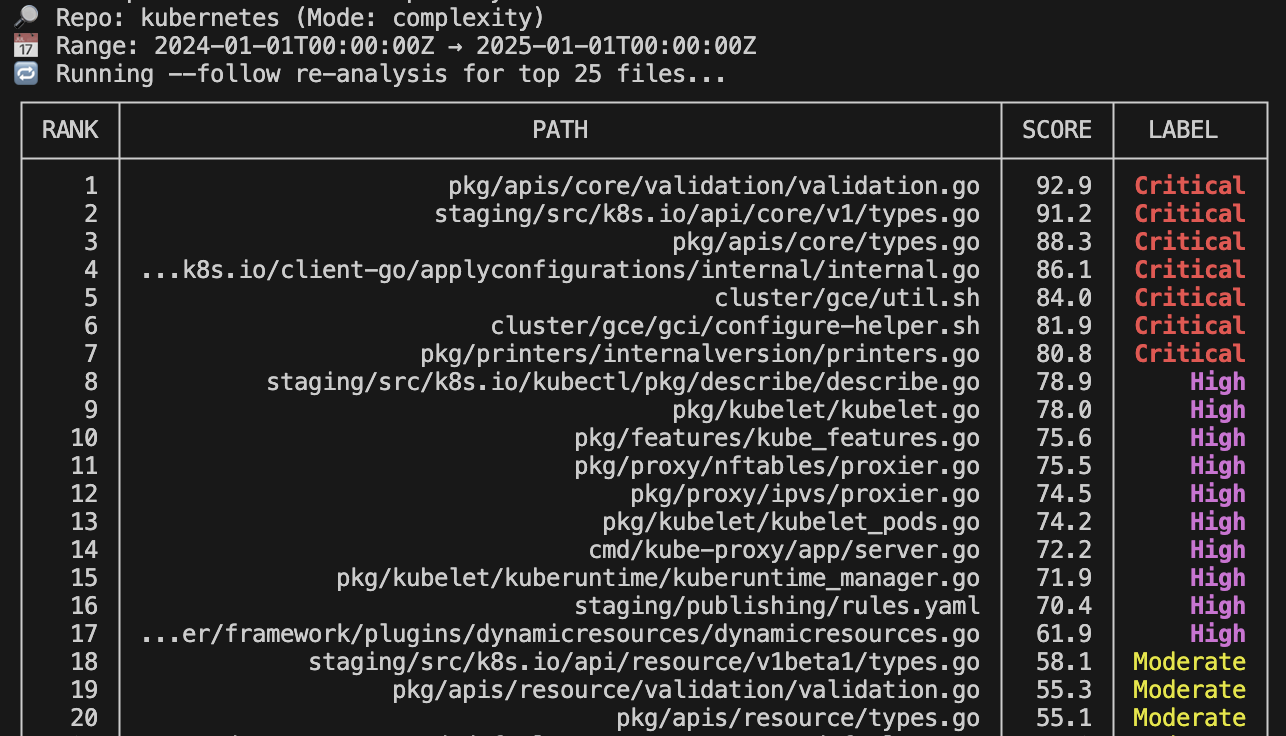
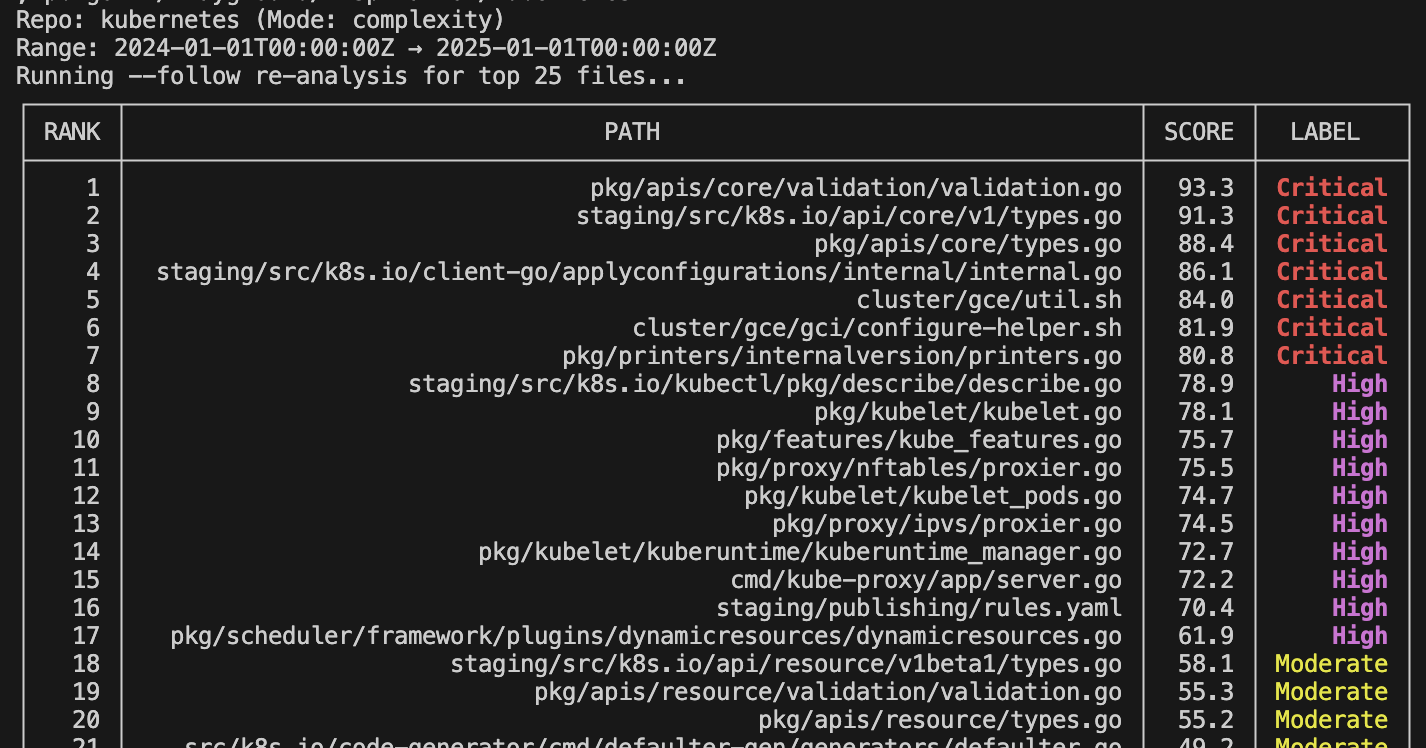
Fix stray emoji and update ranking image

Changed region(s): [[0.0, 0.0, 0.9953, 1.0], [0.1244, 0.9688, 0.1866, 1.0]]

diff --git a/core/analysis.go b/core/analysis.go
@@ -128,7 +128,11 @@ func runFollowPass(ctx context.Context, cfg *contract.Config, client contract.Gi
 	}
 
 	if !shouldSuppressHeader(ctx) {
-		fmt.Printf("🔁 Running --follow re-analysis for top %d files...\n", n)
+		if cfg.UseEmojis {
+			fmt.Printf("🔁 Running --follow re-analysis for top %d files...\n", n)
+		} else {
+			fmt.Printf("Running --follow re-analysis for top %d files...\n", n)
+		}
 	}
 
 	var wg sync.WaitGroup
